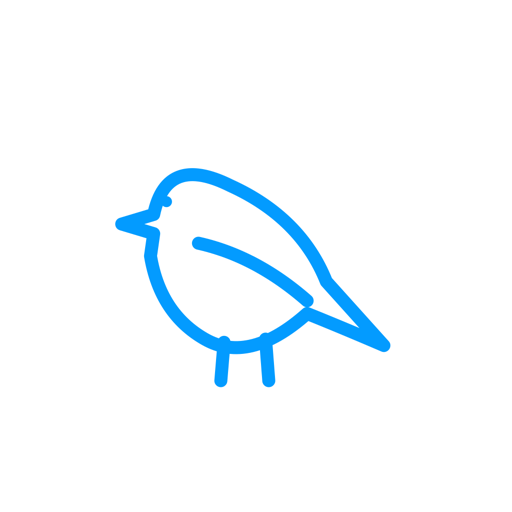
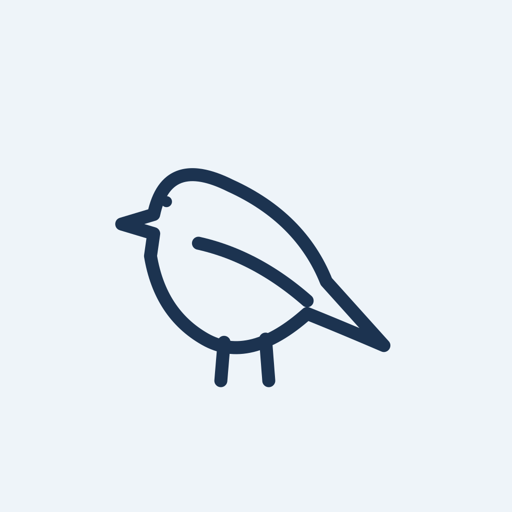
fix(ciappitti): keep the bird whole when it hops, and use the Ocean navy theme
The hop and the tap tilt moved the drawing past the SVG frame, which cut off
the beak and the tail. The bird can now draw past its frame, and the speech
bubble sits a little higher. The page and the homepage icon move from the
bright blue to the app's Ocean theme, with the colors in three variables.

Changed region(s): [[0.2188, 0.3125, 0.7812, 0.7812]]

diff --git a/src/pages/ciappitti/CiappittiLanding.tsx b/src/pages/ciappitti/CiappittiLanding.tsx
@@ -106,11 +106,11 @@ function TappableBird({ size }: { size: number }) {
 
   return (
     <div className="relative inline-flex flex-col items-center">
-      <div className="h-14" aria-live="polite">
+      <div className="mb-4 h-14" aria-live="polite">
         {chirp && (
           <span
             key={chirp.key}
-            className="ciappitti-bubble relative inline-block rounded-2xl bg-[var(--ciappitti-sky)] px-4 py-2 text-sm font-medium text-[var(--ciappitti-blue)]"
+            className="ciappitti-bubble relative inline-block rounded-2xl bg-[var(--ciappitti-paper)] px-4 py-2 text-sm font-medium text-[var(--ciappitti-accent)]"
           >
             {chirp.text}
           </span>
@@ -119,7 +119,7 @@ function TappableBird({ size }: { size: number }) {
       <button
         type="button"
         onClick={tap}
-        className="rounded-3xl p-2 outline-none transition-transform focus-visible:ring-2 focus-visible:ring-[var(--ciappitti-blue)] active:scale-95"
+        className="rounded-3xl p-2 outline-none transition-transform focus-visible:ring-2 focus-visible:ring-[var(--ciappitti-accent)] active:scale-95"
         aria-label="Tap the bird"
       >
         <span ref={bird} className="block origin-bottom">
@@ -191,7 +191,7 @@ function ChatDemo() {
         {CHAT.map((exchange, index) => (
           <div key={exchange.question} className="flex flex-col gap-5">
             {step > index * 2 && (
-              <p className="ciappitti-bubble ml-10 self-end rounded-[1.25rem] bg-[var(--ciappitti-sky)] px-4 py-2.5 text-sm text-zinc-950 dark:text-foreground">
+              <p className="ciappitti-bubble ml-10 self-end rounded-[1.25rem] bg-[var(--ciappitti-paper)] px-4 py-2.5 text-sm text-zinc-950 dark:text-foreground">
                 {exchange.question}
               </p>
             )}
@@ -211,7 +211,7 @@ function ChatDemo() {
           <button
             type="button"
             onClick={() => setStep(0)}
-            className="rounded-full bg-[var(--ciappitti-blue)] px-3 py-1 text-xs font-semibold text-white dark:text-zinc-950"
+            className="rounded-full bg-[var(--ciappitti-accent)] px-3 py-1 text-xs font-semibold text-white dark:text-zinc-950"
           >
             Play again
           </button>
@@ -234,9 +234,9 @@ const divider = (
 function ComingSoon({ className = "" }: { className?: string }) {
   return (
     <span
-      className={`inline-flex items-center gap-2 rounded-full border border-[var(--ciappitti-blue)] px-4 py-2 text-sm font-semibold text-[var(--ciappitti-blue)] ${className}`}
+      className={`inline-flex items-center gap-2 rounded-full border border-[var(--ciappitti-accent)] px-4 py-2 text-sm font-semibold text-[var(--ciappitti-accent)] ${className}`}
     >
-      <span className="h-2 w-2 rounded-full bg-[var(--ciappitti-blue)]" aria-hidden />
+      <span className="h-2 w-2 rounded-full bg-[var(--ciappitti-accent)]" aria-hidden />
       Coming soon to the App Store
     </span>
   );
@@ -277,7 +277,7 @@ export default function CiappittiLanding() {
           <h1 className="mt-6 text-5xl font-semibold leading-[0.95] tracking-tight lg:text-7xl">
             Ask freely.
             <br />
-            <span className="text-[var(--ciappitti-blue)]">It tries its best.</span>
+            <span className="text-[var(--ciappitti-accent)]">It tries its best.</span>
           </h1>
           <p className={`mt-8 max-w-md text-base leading-relaxed ${muted}`}>
             Ciappitti is a pocket-sized, slightly wonky take on ChatGPT. It answers with Apple&apos;s on-device
@@ -322,7 +322,7 @@ export default function CiappittiLanding() {
         <div className="mt-14 grid gap-12 sm:grid-cols-2 lg:grid-cols-4">
           {FEATURES.map(({ icon: Icon, title, body }) => (
             <div key={title}>
-              <Icon className="h-6 w-6 text-[var(--ciappitti-blue)]" aria-hidden />
+              <Icon className="h-6 w-6 text-[var(--ciappitti-accent)]" aria-hidden />
               <h3 className="mt-4 text-lg font-medium tracking-tight">{title}</h3>
               <p className={`mt-2 text-sm leading-relaxed ${muted}`}>{body}</p>
             </div>
@@ -372,7 +372,7 @@ export default function CiappittiLanding() {
 
       {/* CTA */}
       <section className="mx-auto max-w-5xl px-6 pb-32">
-        <div className="flex flex-col items-center rounded-[2rem] bg-[var(--ciappitti-sky)] px-8 py-16 text-center">
+        <div className="flex flex-col items-center rounded-[2rem] bg-[var(--ciappitti-paper)] px-8 py-16 text-center">
           <CiappittiBird size={96} />
           <h2 className="mt-8 text-4xl font-semibold tracking-tight md:text-5xl">Cip cip, almost there.</h2>
           <p className={`mt-4 max-w-md text-base ${muted}`}>Free, on iPhone, in five languages.</p>

diff --git a/src/pages/ciappitti/CiappittiBird.tsx b/src/pages/ciappitti/CiappittiBird.tsx
@@ -66,6 +66,8 @@ export default function CiappittiBird({
       width={size}
       height={(size * 466) / 582}
       className={classes}
+      // The hop and the tilt move the drawing past its frame.
+      style={{ overflow: "visible" }}
       role={label ? "img" : undefined}
       aria-label={label}
       aria-hidden={label ? undefined : true}
@@ -73,7 +75,7 @@ export default function CiappittiBird({
       <g
         className="bird-body"
         fill="none"
-        stroke="var(--ciappitti-blue)"
+        stroke="var(--ciappitti-ink)"
         strokeWidth={LINE_WIDTH}
         strokeLinecap="round"
         strokeLinejoin="round"
@@ -85,7 +87,7 @@ export default function CiappittiBird({
           cx={EYE.cx}
           cy={EYE.cy}
           r={EYE.r}
-          fill="var(--ciappitti-blue)"
+          fill="var(--ciappitti-ink)"
           stroke="none"
           className="bird-eye"
           style={{ "--eye-delay": `${timing.eye}s` } as CSSProperties}

diff --git a/src/styles/ciappitti.css b/src/styles/ciappitti.css
@@ -2,15 +2,18 @@
    (body, wing, legs, then the eye), then hops twice with a tilt of the head
    every few seconds. With reduced motion it is simply drawn. */
 
+/* The app's Ocean icon theme: the bird's ink, the accent for text and
+   buttons, and the icon's paper for soft backgrounds. */
 .ciappitti-page {
-  --ciappitti-blue: #0071c7;
-  --ciappitti-ink: #039bff;
-  --ciappitti-sky: #e8f4fd;
+  --ciappitti-ink: #1c3350;
+  --ciappitti-accent: #1c3350;
+  --ciappitti-paper: #eef4f9;
 }
 
 .dark .ciappitti-page {
-  --ciappitti-blue: #4db8ff;
-  --ciappitti-sky: hsl(205 45% 16%);
+  --ciappitti-ink: #8db4e2;
+  --ciappitti-accent: #8db4e2;
+  --ciappitti-paper: hsl(212 35% 16%);
 }
 
 .ciappitti-bird .bird-line {
